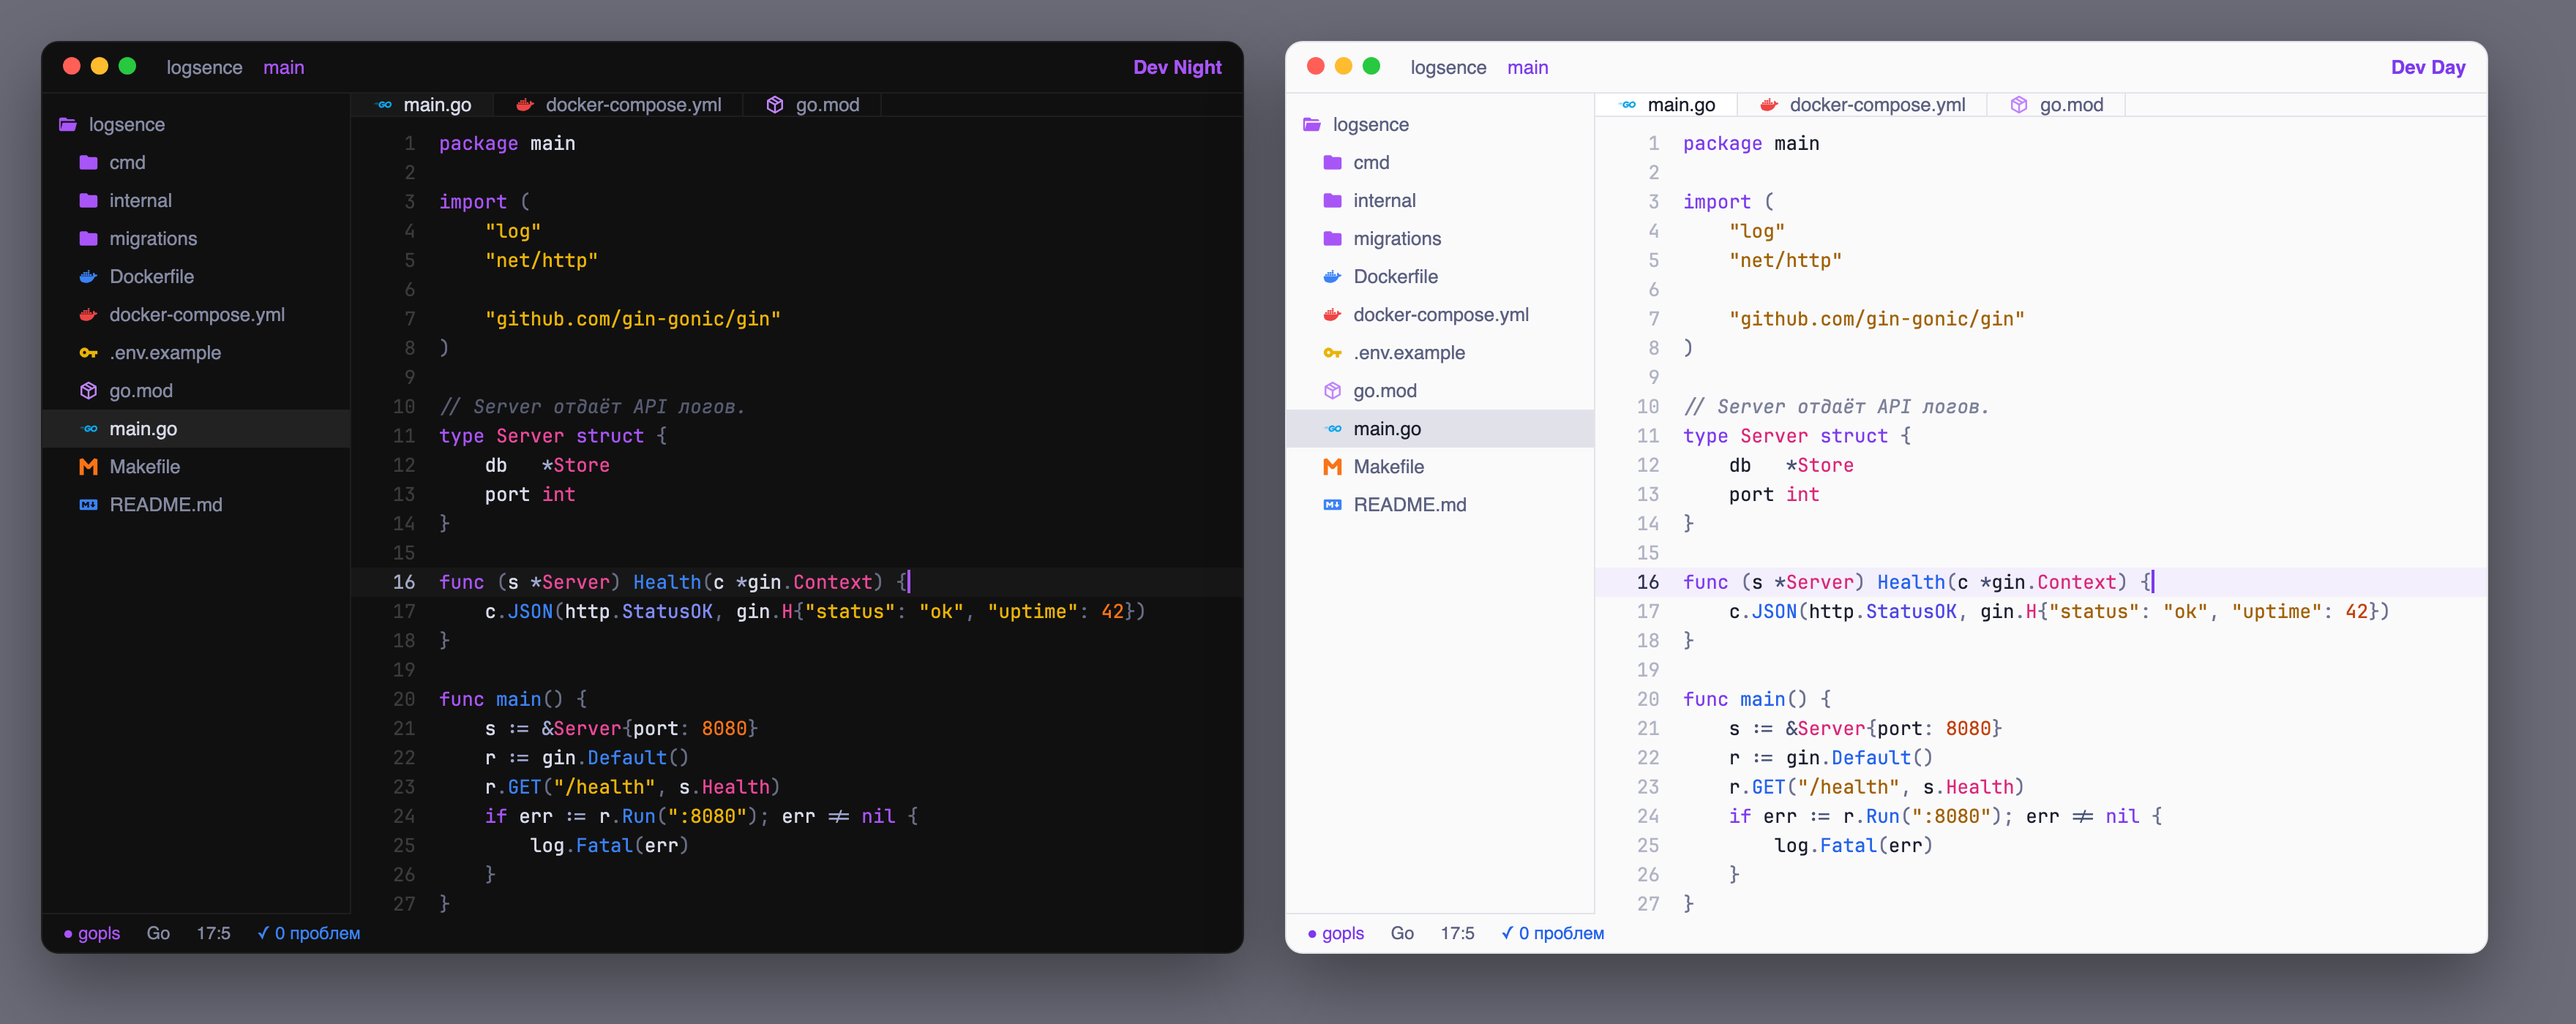
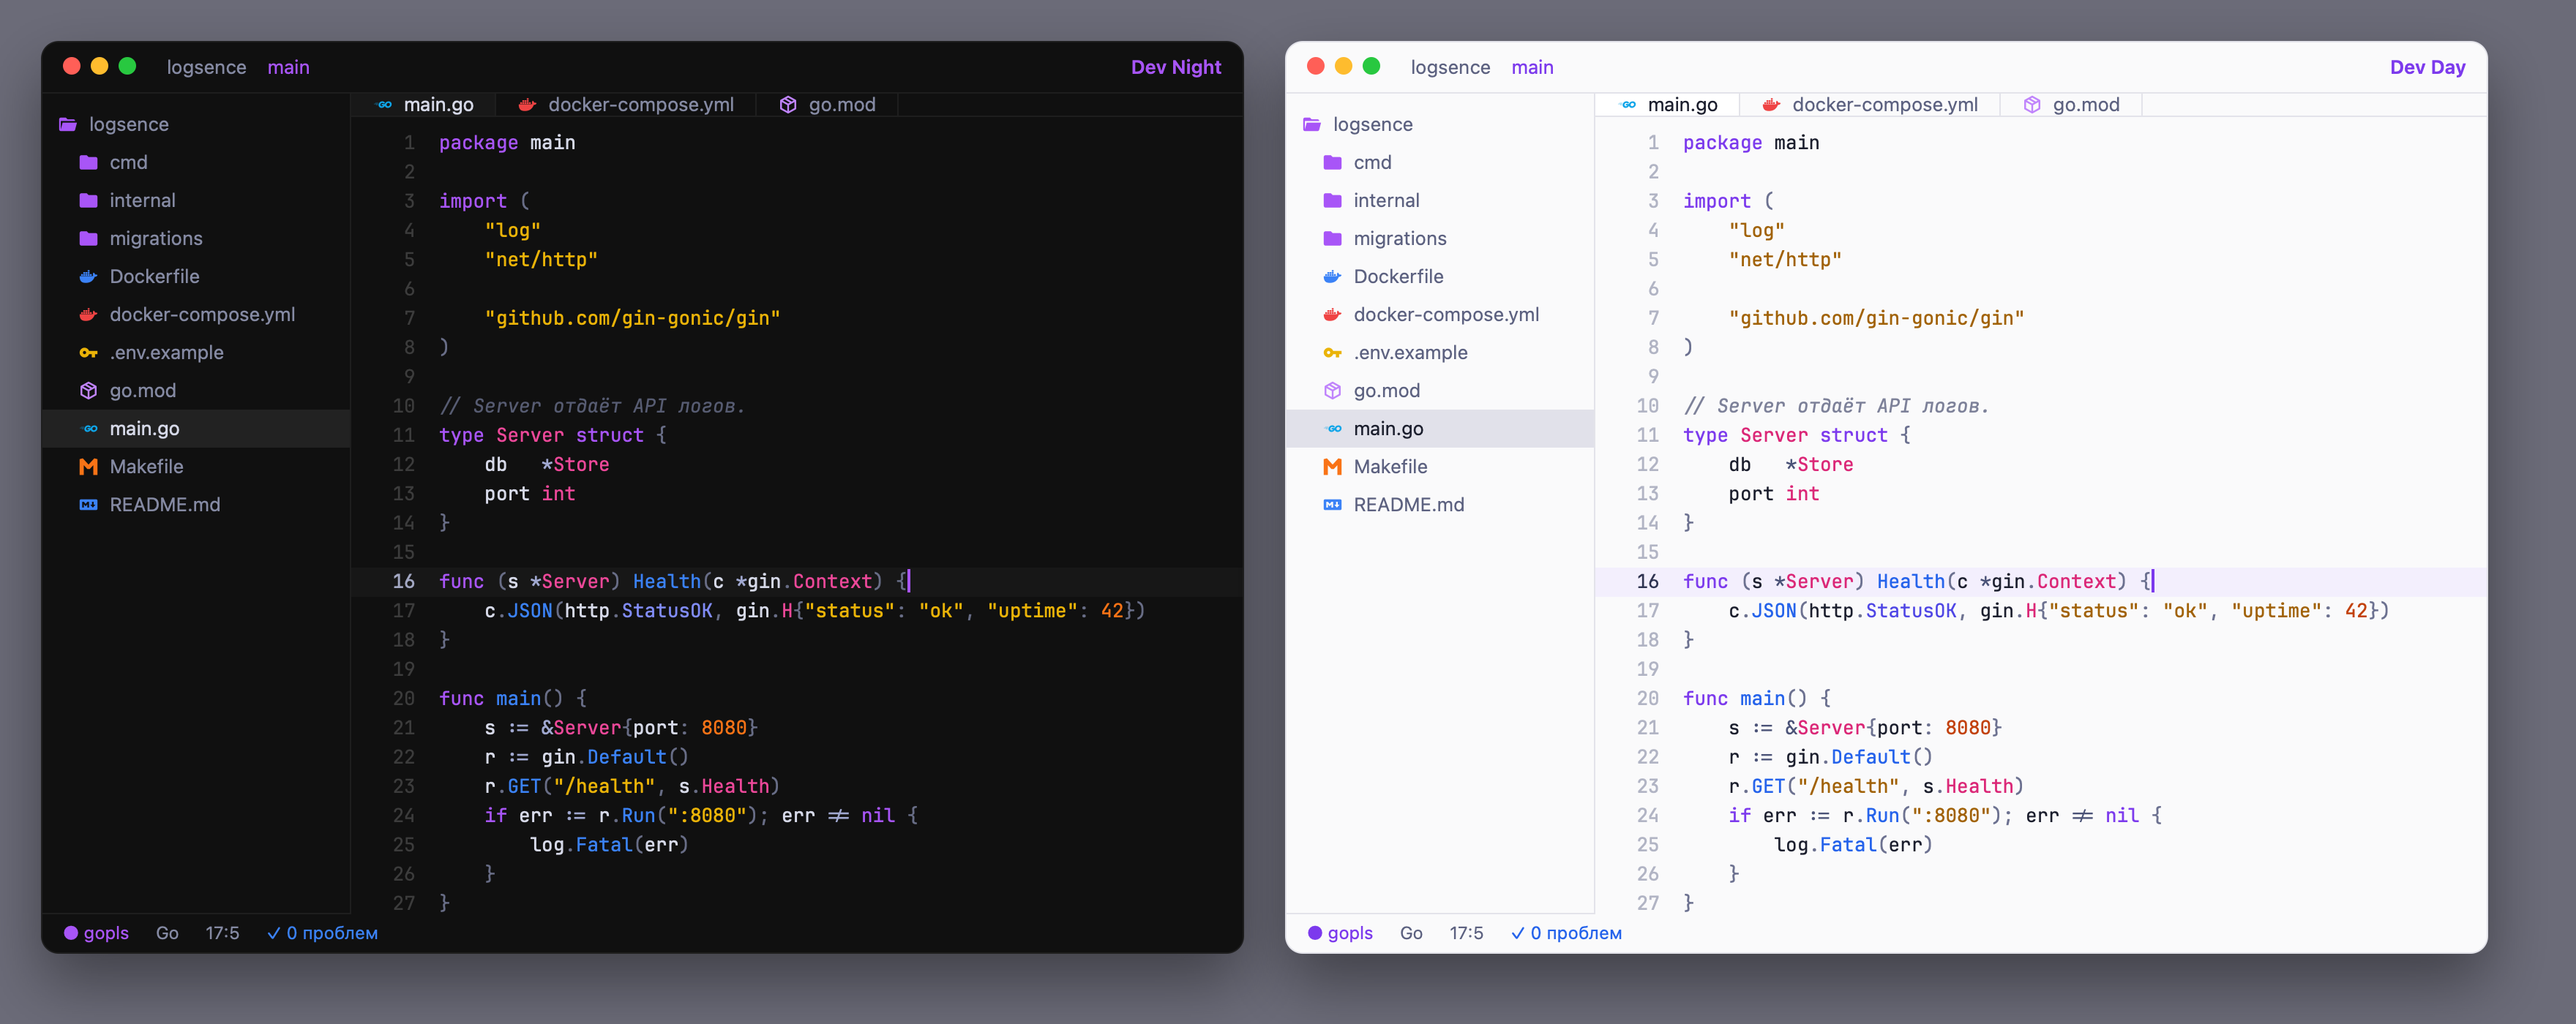
Drop Chrome: WebKit renderer for previews, Safari on workspace 3
icons/html2png.swift renders HTML to PNG with the WebKit built into
macOS, so zed/tools/preview.py no longer needs headless Chrome.
AeroSpace moves Safari to workspace 3 (was Chrome); Chrome removed from
app icons and the recovery checklist.

Claude-Session: https://claude.ai/code/session_01A6vcWtPRURuRKDpNb9h79B

diff --git a/icons/html2png.swift b/icons/html2png.swift
@@ -1,0 +1,41 @@
+// ============================================================
+//   HTML → PNG встроенным в macOS WebKit (вместо headless Chrome — без лишних браузеров).
+//     swift html2png.swift <страница.html> <выход.png> [ширина высота]
+//   Шрифты — системные и установленные (JetBrainsMono Nerd Font и т.п.), картинка в 2×.
+//   Используется zed/tools/preview.py и для картинок в docs/.
+// ============================================================
+import AppKit
+import WebKit
+
+let args = CommandLine.arguments
+guard args.count >= 3 else { print("swift html2png.swift <in.html> <out.png> [w h]"); exit(2) }
+let input = URL(fileURLWithPath: args[1]), output = URL(fileURLWithPath: args[2])
+let width = args.count > 3 ? Double(args[3])! : 1600, height = args.count > 4 ? Double(args[4])! : 1000
+
+final class Shooter: NSObject, WKNavigationDelegate {
+    func webView(_ webView: WKWebView, didFinish navigation: WKNavigation!) {
+        // дать догрузиться картинкам и шрифтам
+        DispatchQueue.main.asyncAfter(deadline: .now() + 0.8) {
+            let config = WKSnapshotConfiguration()
+            config.rect = CGRect(x: 0, y: 0, width: width, height: height)
+            webView.takeSnapshot(with: config) { image, error in
+                guard let image, let tiff = image.tiffRepresentation, let rep = NSBitmapImageRep(data: tiff),
+                      let png = rep.representation(using: .png, properties: [:]) else {
+                    print("не получилось: \(error?.localizedDescription ?? "?")"); exit(1)
+                }
+                try! png.write(to: output)
+                exit(0)
+            }
+        }
+    }
+    func webView(_ webView: WKWebView, didFail navigation: WKNavigation!, withError error: Error) { print(error); exit(1) }
+}
+
+let app = NSApplication.shared
+app.setActivationPolicy(.prohibited)                 // без иконки в Dock и окон
+let web = WKWebView(frame: NSRect(x: 0, y: 0, width: width, height: height))
+let shooter = Shooter()
+web.navigationDelegate = shooter
+web.loadFileURL(input, allowingReadAccessTo: URL(fileURLWithPath: "/"))
+DispatchQueue.main.asyncAfter(deadline: .now() + 30) { print("таймаут"); exit(1) }
+app.run()

diff --git a/icons/icons.swift b/icons/icons.swift
@@ -25,7 +25,6 @@ let gold = hex("f6c177"), love = hex("eb6f92"), text = hex("e0def4")
 
 let apps: [App] = [
     App(path: "/Applications/Visual Studio Code.app", glyph: "\u{F0A1E}", color: foam),
-    App(path: "/Applications/Google Chrome.app",      glyph: "\u{F268}",  color: gold),
     App(path: "/Applications/Telegram.app",           glyph: "\u{F2C6}",  color: iris),
     App(path: "/Applications/Discord.app",            glyph: "\u{F066F}", color: rose),
     App(path: "/Applications/Spotify.app",            glyph: "\u{F1BC}",  color: love),

diff --git a/zed/tools/preview.py b/zed/tools/preview.py
@@ -3,14 +3,14 @@
 #   Превью тем Dev Night / Dev Day без запуска Zed: окно «как в Zed» (дерево файлов с
 #   иконками, вкладки, Go-код, статус-бар), цвета — прямо из themes/dev-night.json.
 #     python3 zed/tools/preview.py            → docs/zed-themes.png (обе темы рядом)
-#   Нужен Google Chrome (рисует headless, окон не открывает).
+#   Рисует встроенный в macOS WebKit (icons/html2png.swift), окон не открывает.
 # ============================================================
 import json, os, re, subprocess, tempfile, html
 
 HERE = os.path.dirname(os.path.abspath(__file__))
 ROOT = os.path.abspath(os.path.join(HERE, "..", ".."))
 OUT = os.path.join(ROOT, "docs", "zed-themes.png")
-CHROME = "/Applications/Google Chrome.app/Contents/MacOS/Google Chrome"
+RENDER = os.path.join(ROOT, "icons", "html2png.swift")
 
 CODE = '''package main
 
@@ -130,8 +130,6 @@ body{{margin:0;padding:28px;background:#6b6b78;display:flex;gap:28px;font:13px/1
 
 with tempfile.NamedTemporaryFile("w", suffix=".html", delete=False) as f:
     f.write(page)
-subprocess.run([CHROME, "--headless", "--disable-gpu", "--hide-scrollbars", "--force-device-scale-factor=2",
-                "--allow-file-access-from-files", f"--screenshot={OUT}", "--window-size=1760,700",
-                "file://" + f.name], check=True, capture_output=True)
+subprocess.run(["swift", RENDER, f.name, OUT, "1760", "700"], check=True, capture_output=True)
 os.unlink(f.name)
 print("→", OUT)

diff --git a/docs/recovery.ru.md b/docs/recovery.ru.md
@@ -31,7 +31,7 @@
 
 - [ ] GitHub: `gh auth login` (вход по HTTPS через браузер, SSH-ключей нет)
 - [ ] Проекты: `mkdir ~/dev && cd ~/dev && gh repo clone <имя>` для каждого (`gh repo list` — все свои)
-- [ ] Войти: Telegram, Discord, Яндекс Музыка, Chrome, Claude, ChatGPT
+- [ ] Войти: Telegram, Discord, Яндекс Музыка, Claude, ChatGPT
 - [ ] VPN (Happ / WireGuard): заново добавить конфиги
 - [ ] Raycast: импортировать настройки, если сохранял экспорт (Settings → Advanced → Export)
 - [ ] Zed: войти в аккаунт (для AI)
@@ -40,7 +40,7 @@
 ## Приложения не из Brewfile
 
 Ставятся с сайтов или из App Store, `dot doctor --deep` показывает их как «нет в Brewfile»:
-Telegram, Discord, Яндекс Музыка, Happ, Chrome, Spotify, ChatGPT, Claude, GitHub Desktop, JetBrains Toolbox, UTM, iTerm, Rectangle, Hammerspoon.
+Telegram, Discord, Яндекс Музыка, Happ, Spotify, ChatGPT, Claude, GitHub Desktop, JetBrains Toolbox, UTM, iTerm, Rectangle, Hammerspoon.
 Нужное постоянно — лучше внести в `Brewfile` (`cask "telegram"` и т.п.), тогда тоже вернётся само.
 
 ## Что пропадает
